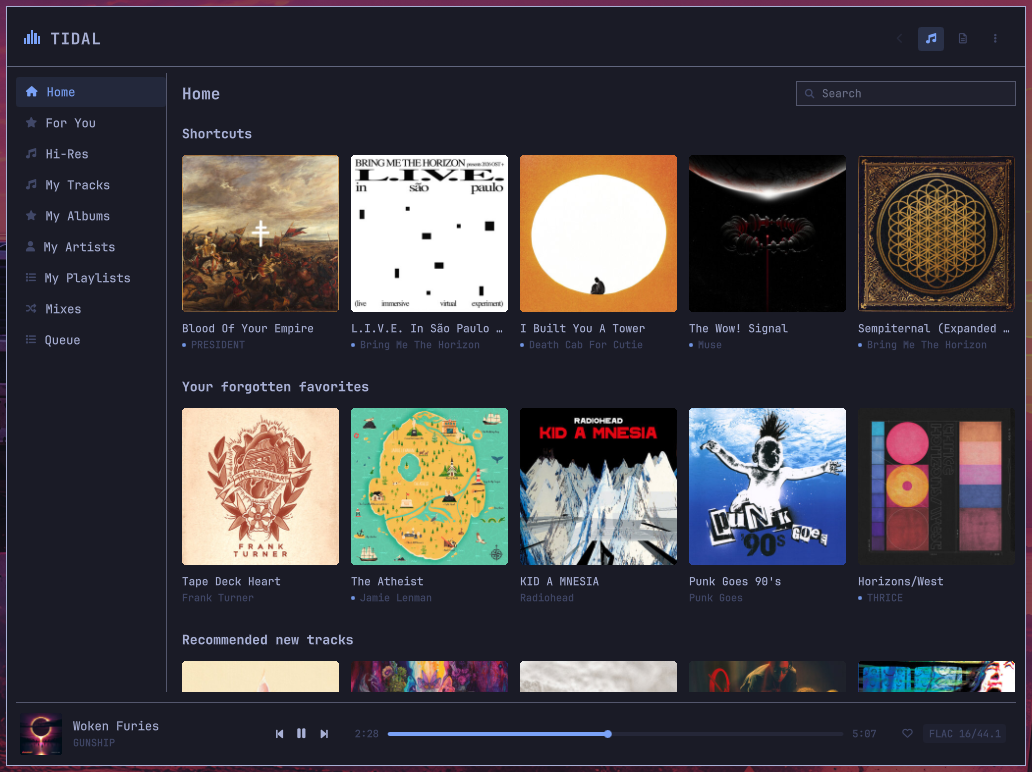
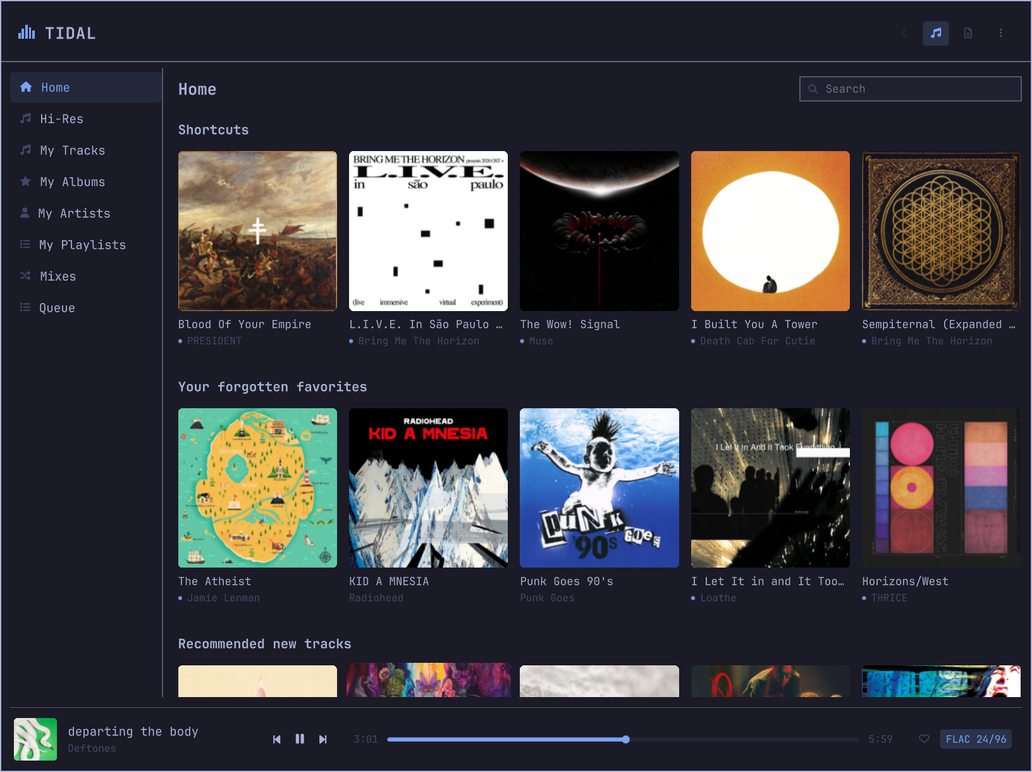
Home showed itself twice, and For You was the same page again
/home merged tidalapi's `home` and `for_you` pages into one list. Measured
against a real account they are the same page: twenty rows each, seventeen
byte-identical -- same titles, same items, same order -- and the other three
differing only in which record a "Because you listened to" shelf was seeded
from. So Home was forty rows, half of them repeats below the fold.

The endpoint now takes `?page=home|for_you|both`, defaulting to `both` so an
older UI against a newer companion gets what it used to, and Home asks for
`home`. The mapping lives in its own module because `http.py` imports tornado,
which is a web server and not something to install on a CI runner to test a
lookup table.

"For You" is gone from the sidebar for the same reason. Browsing it gave four
folders with no artwork, which is the thing the Home page was rebuilt to stop
doing, and behind them was Home again.

python3 -m pytest tests -q       43 passed
node --test tests/js.test.mjs    52 passed

Claude-Session: https://claude.ai/code/session_01UGksX6hwkEdP14s6fTBii7

diff --git a/qml/lib/Library.js b/qml/lib/Library.js
@@ -277,10 +277,16 @@ function librarySection(uri) {
 // are just browse targets -- no special-casing anywhere in the UI. Search is
 // not among them: it has its own field in the page header, and a nav row that
 // only moved focus into that field was a second door onto the same room.
+//
+// "For You" is not among them either. It is not a different page: measured
+// against a real account, `for_you` and `home` return twenty rows each of
+// which seventeen are identical -- same titles, same items, same order -- and
+// the remaining three differ only in which record a "Because you listened to"
+// shelf was seeded from. Browsing it gave four folders with no artwork, which
+// is what the Home page was rebuilt to stop doing. One door onto one room.
 function navigation() {
   return [
     { label: "Home",        uri: "tidal:home",        icon: "home" },
-    { label: "For You",     uri: "tidal:for_you",     icon: "star" },
     { label: "Hi-Res",      uri: "tidal:hires",       icon: "hires" },
     { label: "My Tracks",   uri: "tidal:my_tracks",   icon: "track" },
     { label: "My Albums",   uri: "tidal:my_albums",   icon: "album" },

diff --git a/qml/views/HomeView.qml b/qml/views/HomeView.qml
@@ -22,6 +22,14 @@ Item {
   property color foreground: Color.menu.text
   property string fontFamily: Style.font.menuFamily
 
+  // Which of TIDAL's personalised pages to ask the companion for.
+  //
+  // "home" rather than the endpoint's default of both, because both is what
+  // this page used to send: /home merged `home` and `for_you`, and on a real
+  // account 17 of those 20 rows are identical -- same titles, same items, same
+  // order. Home was showing itself twice below the fold.
+  property string page: "home"
+
   property bool alive: true
   Component.onDestruction: root.alive = false
 
@@ -106,7 +114,7 @@ Item {
     root.loading = true
     root.errorText = ""
 
-    Tidal.home(function(payload) {
+    Tidal.home(root.page, function(payload) {
       if (!root.alive) return
       root.loading = false
       var rows = (payload && payload.rows) || []

diff --git a/qml/lib/TidalApi.js b/qml/lib/TidalApi.js
@@ -77,7 +77,11 @@ function lyrics(trackUri, onOk, onErr) {
 
 // Tidal's personalized home / For You rows.
 // -> { rows: [{ title, items: [{ uri, name, artist, image, type }] }] }
-function home(onOk, onErr) { _request("GET", "/home", null, onOk, onErr) }
+// `page` is "home", "for_you", or "" for both -- which is what the endpoint
+// answered before the argument existed.
+function home(page, onOk, onErr) {
+  _request("GET", "/home" + _q({ page: String(page || "") }), null, onOk, onErr)
+}
 
 // Favorites: toggle or query the heart state of a track.
 function isFavorite(trackUri, onOk, onErr) {

diff --git a/backend/mopidy_omarchy_tidal/http.py b/backend/mopidy_omarchy_tidal/http.py
@@ -29,6 +29,7 @@ import tornado.web
 
 from . import images as images_mod
 from . import lyrics as lyrics_mod
+from . import pages as pages_mod
 from . import palette as palette_mod
 from . import text as text_mod
 from .session import SessionProvider, entity_id, track_id
@@ -242,16 +243,25 @@ def _item_payload(item) -> dict | None:
 
 
 class HomeHandler(BaseHandler):
-    """Tidal's personalised front page, flattened into titled rows."""
+    """Tidal's personalised front page, flattened into titled rows.
+
+    `?page=home` and `?page=for_you` split what used to be one merged list.
+    Home and For You are separate pages in TIDAL's own client and separate
+    entries in our sidebar, and serving both from one endpoint meant For You
+    duplicated Home and had to fall back to a folder list to say anything at
+    all.
+    """
 
     async def get(self) -> None:
         session = self.session_or_503()
         if session is None:
             return
 
+        wanted = pages_mod.home_pages(self.get_argument("page", ""))
+
         def work():
             rows = []
-            for page_name in ("home", "for_you"):
+            for page_name in wanted:
                 getter = getattr(session, page_name, None)
                 if getter is None:
                     continue

diff --git a/backend/mopidy_omarchy_tidal/pages.py b/backend/mopidy_omarchy_tidal/pages.py
@@ -1,0 +1,29 @@
+"""Which of TIDAL's personalised pages a request is asking for.
+
+Kept out of `http.py` so it can be tested: that module imports tornado, which
+is a web server and not something to install on a CI runner in order to check
+a lookup table.
+"""
+
+from __future__ import annotations
+
+# Home and For You are separate pages in TIDAL's own client and separate
+# entries in our sidebar. `both` is what /home answered before this argument
+# existed, and remains the default so an older UI against a newer companion
+# gets exactly what it used to.
+HOME_PAGES: dict[str, tuple[str, ...]] = {
+    "home": ("home",),
+    "for_you": ("for_you",),
+    "both": ("home", "for_you"),
+}
+
+
+def home_pages(requested: str | None) -> tuple[str, ...]:
+    """The tidalapi page getters named by a `?page=` argument.
+
+    Anything unrecognised falls back to `both` rather than erroring: a query
+    string is user input, and answering a front page with a 400 is a worse
+    outcome than answering it with everything.
+    """
+    key = (requested or "").strip().lower()
+    return HOME_PAGES.get(key or "both", HOME_PAGES["both"])

diff --git a/tests/test_pages.py b/tests/test_pages.py
@@ -1,0 +1,28 @@
+"""Which personalised page a /home request means."""
+
+from __future__ import annotations
+
+from _backend import load
+
+pages = load("pages")
+
+
+def test_named_pages_map_to_one_getter_each():
+    assert pages.home_pages("home") == ("home",)
+    assert pages.home_pages("for_you") == ("for_you",)
+
+
+def test_both_is_the_default_and_the_old_behaviour():
+    assert pages.home_pages("both") == ("home", "for_you")
+    assert pages.home_pages("") == ("home", "for_you")
+    assert pages.home_pages(None) == ("home", "for_you")
+
+
+def test_an_unknown_page_answers_with_everything_rather_than_erroring():
+    assert pages.home_pages("front") == ("home", "for_you")
+    assert pages.home_pages("../etc/passwd") == ("home", "for_you")
+
+
+def test_the_argument_is_read_leniently():
+    assert pages.home_pages("  For_You  ") == ("for_you",)
+    assert pages.home_pages("HOME") == ("home",)

diff --git a/README.md b/README.md
@@ -113,6 +113,12 @@ The shelves TIDAL's own client opens on — shortcuts, forgotten favourites,
 recommendations, recently played — with artwork, straight from your account. Not
 a folder list.
 
+There is no separate "For You": TIDAL returns it as the same page. Measured
+against a real account, `for_you` and `home` give twenty rows each of which
+seventeen are identical — same titles, same items, same order — and the other
+three differ only in which record a "Because you listened to" shelf was seeded
+from. Home used to ask for both and show itself twice below the fold.
+
 Cards open the album or artist behind them; the play button on a card starts it
 without leaving the page.
 
@@ -120,8 +126,8 @@ without leaving the page.
 
 ![The player](docs/screenshots/player.png)
 
-Sidebar over the whole TIDAL tree — Home, For You, **Hi-Res**, your tracks,
-albums, artists, playlists and mixes — with search, drill-down, and a queue.
+Sidebar over the whole TIDAL tree — Home, **Hi-Res**, your tracks, albums,
+artists, playlists and mixes — with search, drill-down, and a queue.
 
 Every row carries its artwork, its artist and its album, and its running time,
 the way Apple Music and TIDAL's own client do. Library rows that arrive with
@@ -274,7 +280,7 @@ On Home the arrows walk the artwork grid — up and down between shelves, left a
 right along one — and `Enter` opens a card while `Shift+Enter` starts it, which
 is what the two halves of the card do to the mouse.
 
-In now playing: `A` artwork · `L` lyrics · `I` credits · `Space` play/pause.
+In now playing: `A` artwork · `L` lyrics · `I` the record · `Space` play/pause.
 
 Media keys need no configuration — they already drive MPRIS.
 
@@ -287,7 +293,7 @@ Every surface has an IPC route, so anything here can be bound to a key:
 omarchy-shell tidal overlay      # the player
 omarchy-shell tidal nowPlaying   # now playing, on the artwork
 omarchy-shell tidal lyrics       # now playing, on the lyrics
-omarchy-shell tidal info         # now playing, on the credits
+omarchy-shell tidal info         # now playing, on the record
 omarchy-shell tidal mini         # the bar's mini player
 omarchy-shell tidal favorite | radio | shuffle | repeat | consume
 omarchy-shell tidal sleep         # cycle the sleep timer
